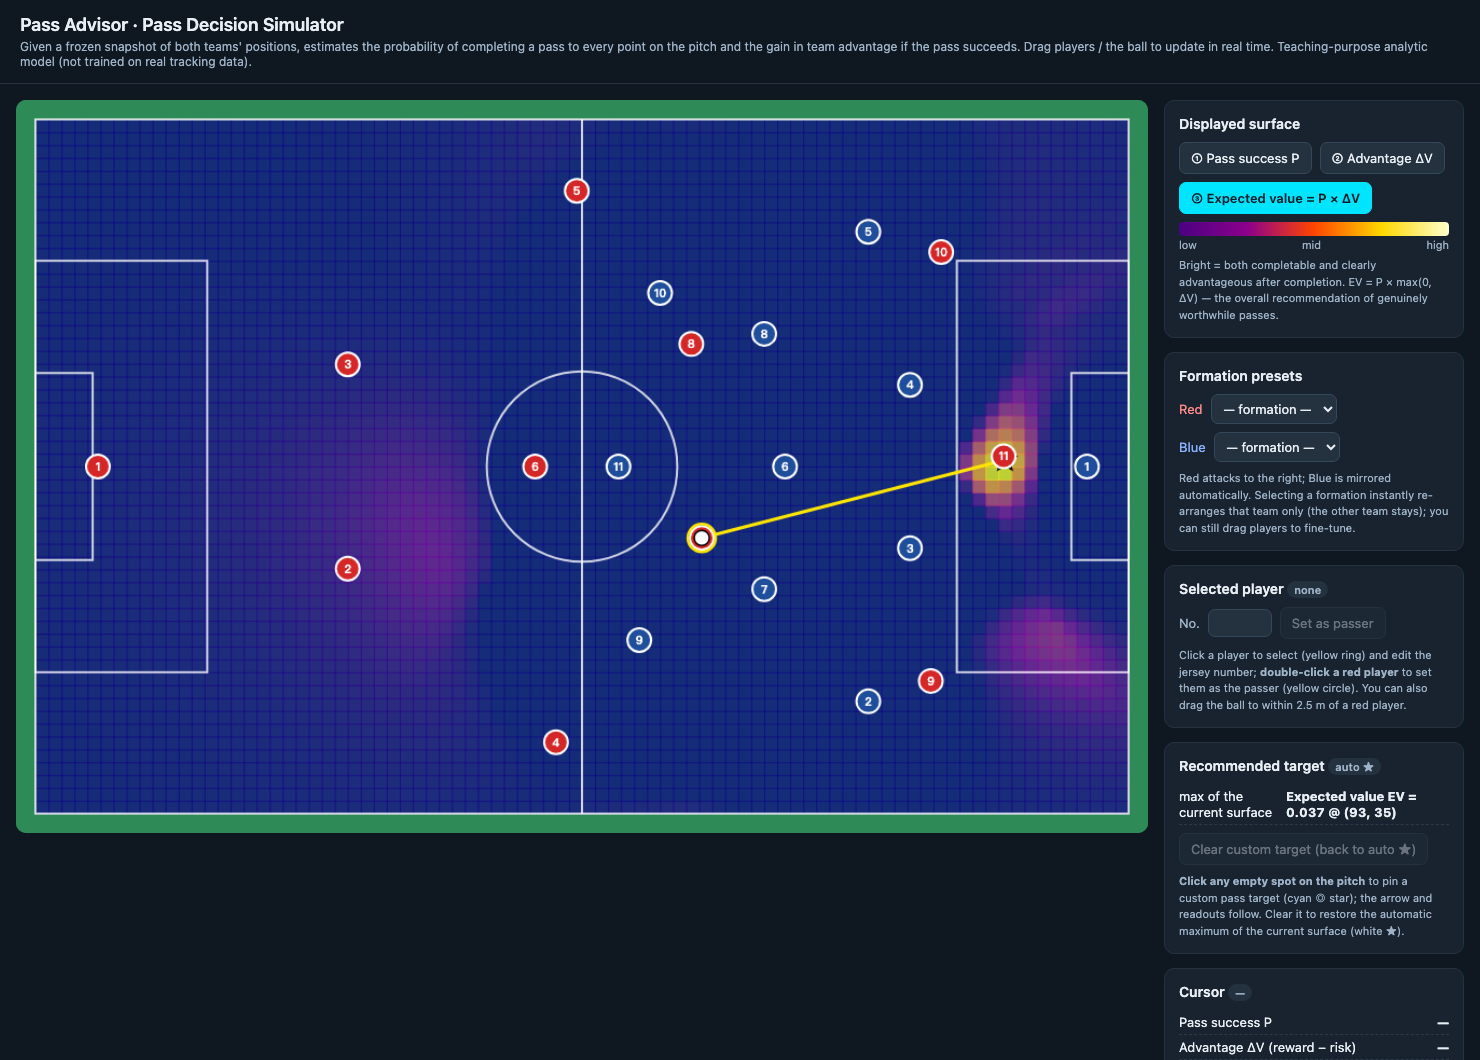
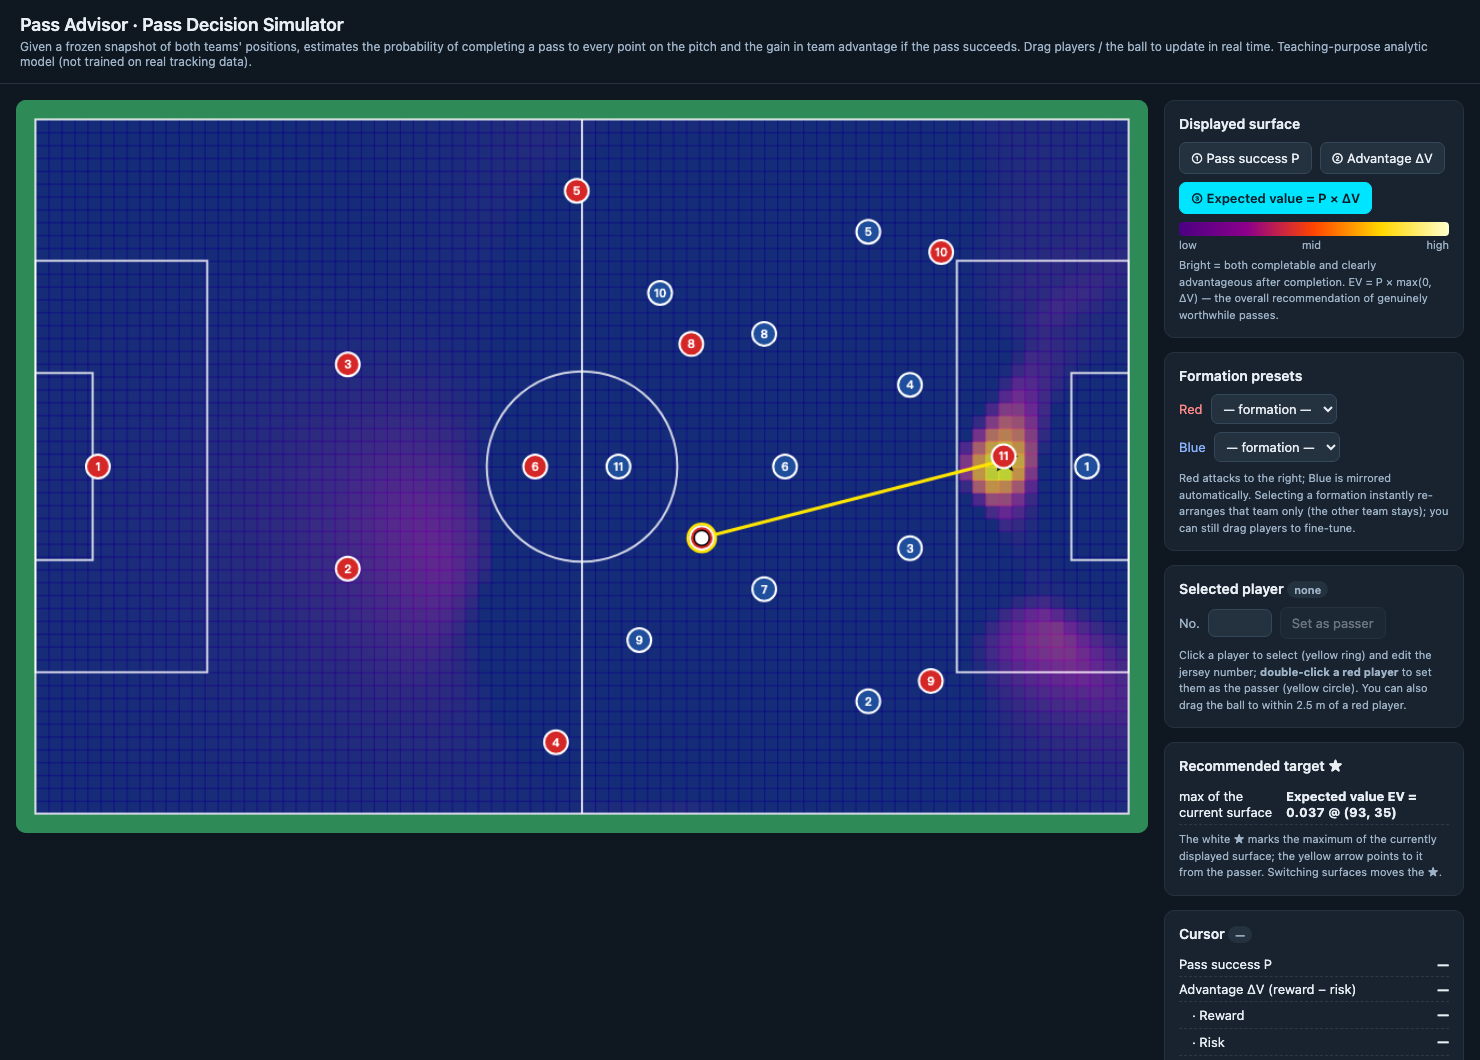
refactor: remove custom pass target, keep automatic best-point star only

Changed region(s): [[0.777, 0.7783, 0.9635, 1.0], [0.9014, 0.716, 0.9324, 0.7472]]

diff --git a/index.html b/index.html
@@ -97,10 +97,9 @@
     </div>
 
     <div class="panel">
-      <h2>Recommended target <span class="pill" id="tgtmode">auto ★</span></h2>
-      <div class="stat"><span id="best_lbl">max of the current surface</span><b id="best_v">—</b></div>
-      <div class="row"><button id="clrTgt" disabled>Clear custom target (back to auto ★)</button></div>
-      <small class="note"><b>Click any empty spot on the pitch</b> to pin a custom pass target (cyan ◎ star); the arrow and readouts follow. Clear it to restore the automatic maximum of the current surface (white ★).</small>
+      <h2>Recommended target ★</h2>
+      <div class="stat"><span>max of the current surface</span><b id="best_v">—</b></div>
+      <small class="note">The white ★ marks the maximum of the currently displayed surface; the yellow arrow points to it from the passer. Switching surfaces moves the ★.</small>
     </div>
 
     <div class="panel">
@@ -165,7 +164,6 @@ function initTeams(){
 }
 let S = initTeams();
 let ball = S.red[S.ballOwner].slice();
-let manualTarget = null;      // [x,y] user-pinned pass target, or null = auto best
 let sel = null;               // {type:'red'|'blue', idx} selected player
 
 // ---------- model ----------
@@ -266,21 +264,17 @@ function draw(){
     ctx.fillRect(sx(c.x)-cwpx/2, sy(c.y)-chpx/2, cwpx+1, chpx+1);
   }
   drawLines();
-  // target point + arrow (manual pin overrides auto best)
-  const tgt = manualTarget || bestPt;
-  if(tgt){
-    const acc = manualTarget ? '#00e5ff' : '#ffe600';
-    ctx.strokeStyle=acc;ctx.lineWidth=3;
-    if(manualTarget)ctx.setLineDash([9,6]);
-    ctx.beginPath();ctx.moveTo(sx(ball[0]),sy(ball[1]));ctx.lineTo(sx(tgt[0]),sy(tgt[1]));ctx.stroke();
-    ctx.setLineDash([]);
+  // best point + arrow
+  if(bestPt){
+    ctx.strokeStyle='#ffe600';ctx.lineWidth=3;
+    ctx.beginPath();ctx.moveTo(sx(ball[0]),sy(ball[1]));ctx.lineTo(sx(bestPt[0]),sy(bestPt[1]));ctx.stroke();
     // arrowhead
-    const a=Math.atan2(sy(tgt[1])-sy(ball[1]),sx(tgt[0])-sx(ball[0]));
-    ctx.beginPath();ctx.moveTo(sx(tgt[0]),sy(tgt[1]));
-    ctx.lineTo(sx(tgt[0])-12*Math.cos(a-0.4),sy(tgt[1])-12*Math.sin(a-0.4));
-    ctx.lineTo(sx(tgt[0])-12*Math.cos(a+0.4),sy(tgt[1])-12*Math.sin(a+0.4));
-    ctx.closePath();ctx.fillStyle=acc;ctx.fill();
-    star(sx(tgt[0]),sy(tgt[1]),11, manualTarget?'#00e5ff':'#ffffff', '#000');
+    const a=Math.atan2(sy(bestPt[1])-sy(ball[1]),sx(bestPt[0])-sx(ball[0]));
+    ctx.beginPath();ctx.moveTo(sx(bestPt[0]),sy(bestPt[1]));
+    ctx.lineTo(sx(bestPt[0])-12*Math.cos(a-0.4),sy(bestPt[1])-12*Math.sin(a-0.4));
+    ctx.lineTo(sx(bestPt[0])-12*Math.cos(a+0.4),sy(bestPt[1])-12*Math.sin(a+0.4));
+    ctx.closePath();ctx.fillStyle='#ffe600';ctx.fill();
+    star(sx(bestPt[0]),sy(bestPt[1]),11,'#ffffff','#000');
   }
   // players (with jersey numbers)
   for(let k=0;k<S.blue.length;k++)dot(S.blue[k],'#1f4e9c',S.blueNum[k],sel&&sel.type==='blue'&&sel.idx===k);
@@ -311,16 +305,7 @@ function star(cx,cy,r,fill,stroke){
 function fmt(v){return (v>=0?'':'')+v.toFixed(3);}
 function updateBest(){
   const lbl={succ:'Pass success',adv:'Advantage ΔV',ev:'Expected value EV'}[MODE];
-  if(manualTarget){
-    document.getElementById('tgtmode').textContent='custom ◎';
-    document.getElementById('best_lbl').textContent='value at custom target';
-    document.getElementById('best_v').textContent=`${lbl} = ${surfAt(manualTarget).toFixed(3)}  @ (${manualTarget[0].toFixed(0)}, ${manualTarget[1].toFixed(0)})`;
-  }else{
-    document.getElementById('tgtmode').textContent='auto ★';
-    document.getElementById('best_lbl').textContent='max of the current surface';
-    document.getElementById('best_v').textContent = bestPt? `${lbl} = ${bestVal.toFixed(3)}  @ (${bestPt[0].toFixed(0)}, ${bestPt[1].toFixed(0)})` : '—';
-  }
-  document.getElementById('clrTgt').disabled = !manualTarget;
+  document.getElementById('best_v').textContent = bestPt? `${lbl} = ${bestVal.toFixed(3)}  @ (${bestPt[0].toFixed(0)}, ${bestPt[1].toFixed(0)})` : '—';
 }
 function readout(t){
   document.getElementById('cursorpos').textContent=`(${t[0].toFixed(0)}, ${t[1].toFixed(0)}) m`;
@@ -377,12 +362,8 @@ function move(e){
 function up(){
   if(downPt!==null){
     if(!moved){
-      // plain click: select player, or pin manual target on empty pitch
+      // plain click: select player
       if(drag&&(drag.type==='red'||drag.type==='blue')) selectPlayer(drag.type,drag.idx);
-      else if(!drag){
-        manualTarget=[Math.max(0,Math.min(L,downPt[0])),Math.max(0,Math.min(W,downPt[1]))];
-        draw();
-      }
     }else if(drag&&drag.type==='ball'){
       // if the ball was dragged and released within 2.5 m of a red player, make them the passer
       let bd=1e9,bi=-1;S.red.forEach((p,i)=>{const d=Math.hypot(p[0]-ball[0],p[1]-ball[1]);if(d<bd){bd=d;bi=i;}});
@@ -418,7 +399,7 @@ document.getElementById('m_adv').onclick=()=>setMode('adv');
 document.getElementById('m_ev').onclick=()=>setMode('ev');
 const bind=(id,key)=>{const el=document.getElementById(id);el.oninput=()=>{P[key]=+el.value;document.getElementById(id+'v').textContent=(+el.value).toFixed(2);draw();};};
 bind('lam','lam');bind('sig','sig');bind('ctl','ctl');
-document.getElementById('reset').onclick=()=>{S=initTeams();ball=S.red[S.ballOwner].slice();manualTarget=null;clearSelection();
+document.getElementById('reset').onclick=()=>{S=initTeams();ball=S.red[S.ballOwner].slice();clearSelection();
   document.getElementById('fRed').value='';document.getElementById('fBlue').value='';draw();};
 document.getElementById('setBall').onclick=()=>{
   // set ball owner = red player nearest to ball
@@ -437,8 +418,6 @@ document.getElementById('numIn').oninput=function(){
 document.getElementById('mkOwner').onclick=()=>{
   if(sel&&sel.type==='red'){S.ballOwner=sel.idx;ball=S.red[sel.idx].slice();draw();}
 };
-document.getElementById('clrTgt').onclick=()=>{manualTarget=null;draw();};
-
 // formation presets
 for(const id of ['fRed','fBlue']){
   const el=document.getElementById(id);

diff --git a/pass_advisor.html b/pass_advisor.html
@@ -97,10 +97,9 @@
     </div>
 
     <div class="panel">
-      <h2>Recommended target <span class="pill" id="tgtmode">auto ★</span></h2>
-      <div class="stat"><span id="best_lbl">max of the current surface</span><b id="best_v">—</b></div>
-      <div class="row"><button id="clrTgt" disabled>Clear custom target (back to auto ★)</button></div>
-      <small class="note"><b>Click any empty spot on the pitch</b> to pin a custom pass target (cyan ◎ star); the arrow and readouts follow. Clear it to restore the automatic maximum of the current surface (white ★).</small>
+      <h2>Recommended target ★</h2>
+      <div class="stat"><span>max of the current surface</span><b id="best_v">—</b></div>
+      <small class="note">The white ★ marks the maximum of the currently displayed surface; the yellow arrow points to it from the passer. Switching surfaces moves the ★.</small>
     </div>
 
     <div class="panel">
@@ -165,7 +164,6 @@ function initTeams(){
 }
 let S = initTeams();
 let ball = S.red[S.ballOwner].slice();
-let manualTarget = null;      // [x,y] user-pinned pass target, or null = auto best
 let sel = null;               // {type:'red'|'blue', idx} selected player
 
 // ---------- model ----------
@@ -266,21 +264,17 @@ function draw(){
     ctx.fillRect(sx(c.x)-cwpx/2, sy(c.y)-chpx/2, cwpx+1, chpx+1);
   }
   drawLines();
-  // target point + arrow (manual pin overrides auto best)
-  const tgt = manualTarget || bestPt;
-  if(tgt){
-    const acc = manualTarget ? '#00e5ff' : '#ffe600';
-    ctx.strokeStyle=acc;ctx.lineWidth=3;
-    if(manualTarget)ctx.setLineDash([9,6]);
-    ctx.beginPath();ctx.moveTo(sx(ball[0]),sy(ball[1]));ctx.lineTo(sx(tgt[0]),sy(tgt[1]));ctx.stroke();
-    ctx.setLineDash([]);
+  // best point + arrow
+  if(bestPt){
+    ctx.strokeStyle='#ffe600';ctx.lineWidth=3;
+    ctx.beginPath();ctx.moveTo(sx(ball[0]),sy(ball[1]));ctx.lineTo(sx(bestPt[0]),sy(bestPt[1]));ctx.stroke();
     // arrowhead
-    const a=Math.atan2(sy(tgt[1])-sy(ball[1]),sx(tgt[0])-sx(ball[0]));
-    ctx.beginPath();ctx.moveTo(sx(tgt[0]),sy(tgt[1]));
-    ctx.lineTo(sx(tgt[0])-12*Math.cos(a-0.4),sy(tgt[1])-12*Math.sin(a-0.4));
-    ctx.lineTo(sx(tgt[0])-12*Math.cos(a+0.4),sy(tgt[1])-12*Math.sin(a+0.4));
-    ctx.closePath();ctx.fillStyle=acc;ctx.fill();
-    star(sx(tgt[0]),sy(tgt[1]),11, manualTarget?'#00e5ff':'#ffffff', '#000');
+    const a=Math.atan2(sy(bestPt[1])-sy(ball[1]),sx(bestPt[0])-sx(ball[0]));
+    ctx.beginPath();ctx.moveTo(sx(bestPt[0]),sy(bestPt[1]));
+    ctx.lineTo(sx(bestPt[0])-12*Math.cos(a-0.4),sy(bestPt[1])-12*Math.sin(a-0.4));
+    ctx.lineTo(sx(bestPt[0])-12*Math.cos(a+0.4),sy(bestPt[1])-12*Math.sin(a+0.4));
+    ctx.closePath();ctx.fillStyle='#ffe600';ctx.fill();
+    star(sx(bestPt[0]),sy(bestPt[1]),11,'#ffffff','#000');
   }
   // players (with jersey numbers)
   for(let k=0;k<S.blue.length;k++)dot(S.blue[k],'#1f4e9c',S.blueNum[k],sel&&sel.type==='blue'&&sel.idx===k);
@@ -311,16 +305,7 @@ function star(cx,cy,r,fill,stroke){
 function fmt(v){return (v>=0?'':'')+v.toFixed(3);}
 function updateBest(){
   const lbl={succ:'Pass success',adv:'Advantage ΔV',ev:'Expected value EV'}[MODE];
-  if(manualTarget){
-    document.getElementById('tgtmode').textContent='custom ◎';
-    document.getElementById('best_lbl').textContent='value at custom target';
-    document.getElementById('best_v').textContent=`${lbl} = ${surfAt(manualTarget).toFixed(3)}  @ (${manualTarget[0].toFixed(0)}, ${manualTarget[1].toFixed(0)})`;
-  }else{
-    document.getElementById('tgtmode').textContent='auto ★';
-    document.getElementById('best_lbl').textContent='max of the current surface';
-    document.getElementById('best_v').textContent = bestPt? `${lbl} = ${bestVal.toFixed(3)}  @ (${bestPt[0].toFixed(0)}, ${bestPt[1].toFixed(0)})` : '—';
-  }
-  document.getElementById('clrTgt').disabled = !manualTarget;
+  document.getElementById('best_v').textContent = bestPt? `${lbl} = ${bestVal.toFixed(3)}  @ (${bestPt[0].toFixed(0)}, ${bestPt[1].toFixed(0)})` : '—';
 }
 function readout(t){
   document.getElementById('cursorpos').textContent=`(${t[0].toFixed(0)}, ${t[1].toFixed(0)}) m`;
@@ -377,12 +362,8 @@ function move(e){
 function up(){
   if(downPt!==null){
     if(!moved){
-      // plain click: select player, or pin manual target on empty pitch
+      // plain click: select player
       if(drag&&(drag.type==='red'||drag.type==='blue')) selectPlayer(drag.type,drag.idx);
-      else if(!drag){
-        manualTarget=[Math.max(0,Math.min(L,downPt[0])),Math.max(0,Math.min(W,downPt[1]))];
-        draw();
-      }
     }else if(drag&&drag.type==='ball'){
       // if the ball was dragged and released within 2.5 m of a red player, make them the passer
       let bd=1e9,bi=-1;S.red.forEach((p,i)=>{const d=Math.hypot(p[0]-ball[0],p[1]-ball[1]);if(d<bd){bd=d;bi=i;}});
@@ -418,7 +399,7 @@ document.getElementById('m_adv').onclick=()=>setMode('adv');
 document.getElementById('m_ev').onclick=()=>setMode('ev');
 const bind=(id,key)=>{const el=document.getElementById(id);el.oninput=()=>{P[key]=+el.value;document.getElementById(id+'v').textContent=(+el.value).toFixed(2);draw();};};
 bind('lam','lam');bind('sig','sig');bind('ctl','ctl');
-document.getElementById('reset').onclick=()=>{S=initTeams();ball=S.red[S.ballOwner].slice();manualTarget=null;clearSelection();
+document.getElementById('reset').onclick=()=>{S=initTeams();ball=S.red[S.ballOwner].slice();clearSelection();
   document.getElementById('fRed').value='';document.getElementById('fBlue').value='';draw();};
 document.getElementById('setBall').onclick=()=>{
   // set ball owner = red player nearest to ball
@@ -437,8 +418,6 @@ document.getElementById('numIn').oninput=function(){
 document.getElementById('mkOwner').onclick=()=>{
   if(sel&&sel.type==='red'){S.ballOwner=sel.idx;ball=S.red[sel.idx].slice();draw();}
 };
-document.getElementById('clrTgt').onclick=()=>{manualTarget=null;draw();};
-
 // formation presets
 for(const id of ['fRed','fBlue']){
   const el=document.getElementById(id);

diff --git a/README.md b/README.md
@@ -12,9 +12,9 @@ Research question it illustrates: *with both formations frozen at one instant, w
 
 ![Expected value surface](figures/app_ev.png)
 
-| Pass success P | Advantage ΔV | Custom target ◎ |
+| Pass success P | Advantage ΔV | Formation presets |
 |---|---|---|
-| ![P](figures/app_success.png) | ![ΔV](figures/app_advantage.png) | ![custom](figures/app_custom_target.png) |
+| ![P](figures/app_success.png) | ![ΔV](figures/app_advantage.png) | ![formations](figures/app_formations.png) |
 
 ---
 
@@ -49,10 +49,9 @@ Any of:
 
 There is also a "Passer = nearest red" button.
 
-### Choosing the target (star)
+### The recommended target (white ★)
 
-- **Auto (default)**: the app evaluates the selected surface on an 84×54 grid; the white ★ marks the maximum and a yellow arrow points to it from the passer. Switching between the three surfaces (P / ΔV / EV) moves the ★.
-- **Custom**: **click any empty spot on the pitch** to pin the pass target there (cyan ◎ star + dashed arrow); the side panel shows its values. "Clear custom target" restores the automatic ★.
+The app evaluates the selected surface on an 84×54 grid; the white ★ marks the maximum and a yellow arrow points to it from the passer. Switching between the three surfaces (P / ΔV / EV) moves the ★.
 
 ### Readouts and parameters
 
@@ -72,8 +71,8 @@ pass_advisor/
 └── figures/
     ├── app_success.png        # screenshot: pass success surface (default scene)
     ├── app_advantage.png      # screenshot: advantage ΔV surface (diverging colormap)
-    ├── app_ev.png             # screenshot: expected value surface + auto ★
-    └── app_custom_target.png  # screenshot: 4-3-3 vs 5-4-1 with a custom target ◎
+    ├── app_ev.png             # screenshot: expected value surface + recommended ★
+    └── app_formations.png     # screenshot: 4-3-3 vs 5-4-1 formation presets
 ```
 
 ---